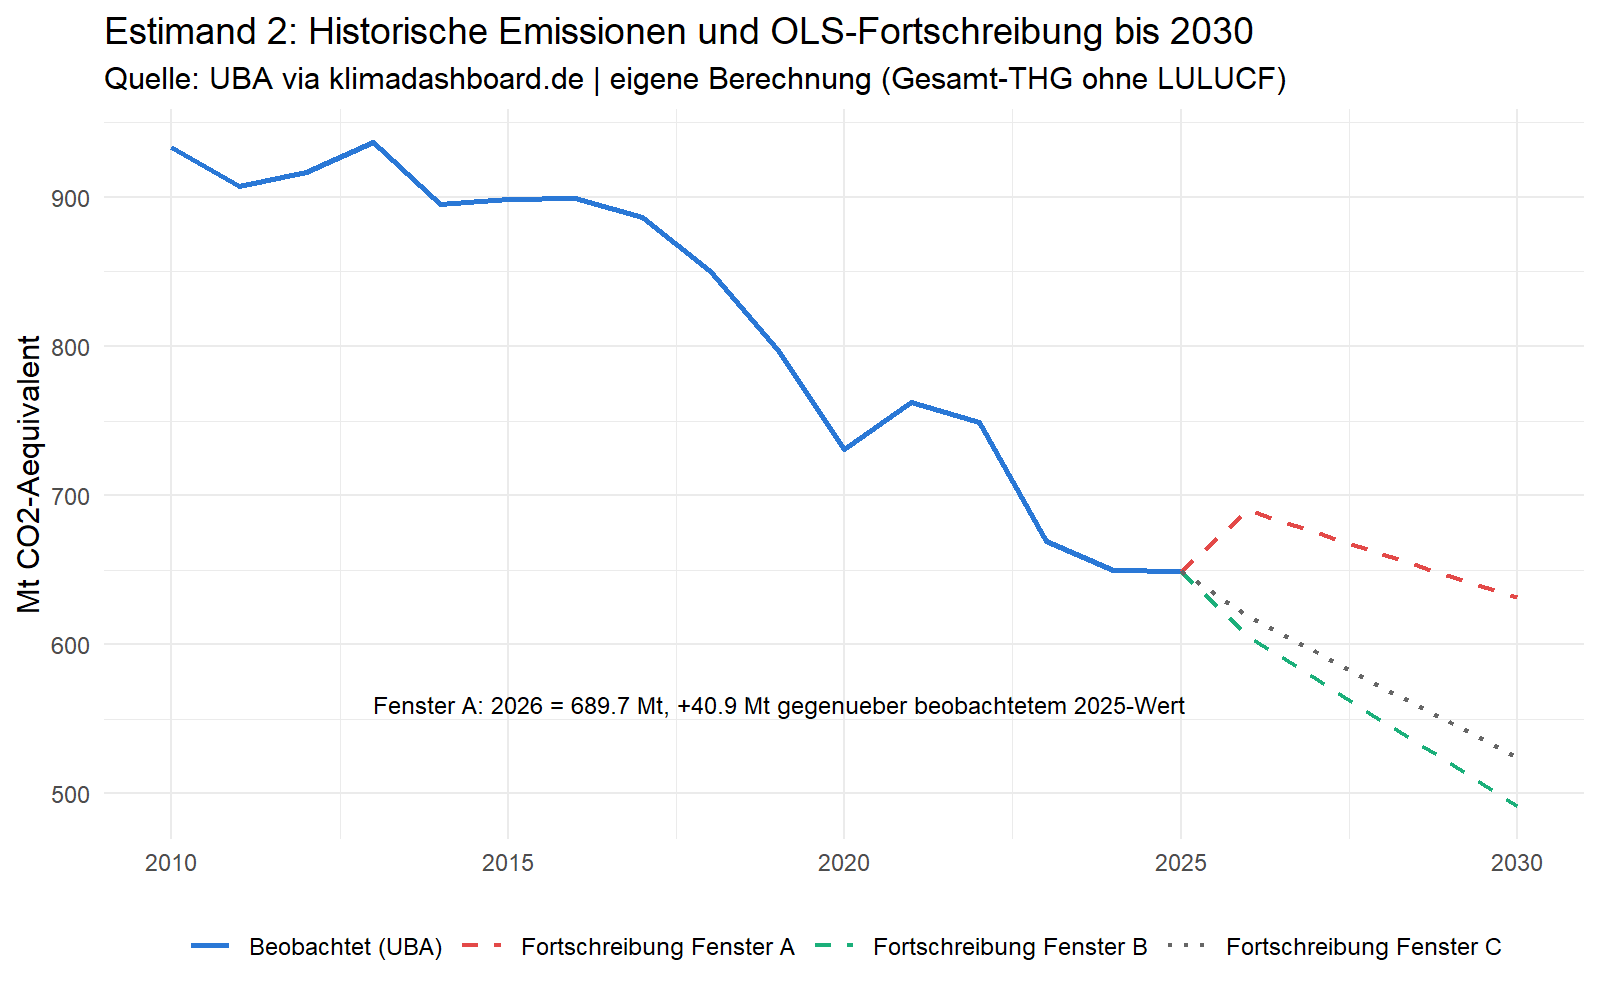
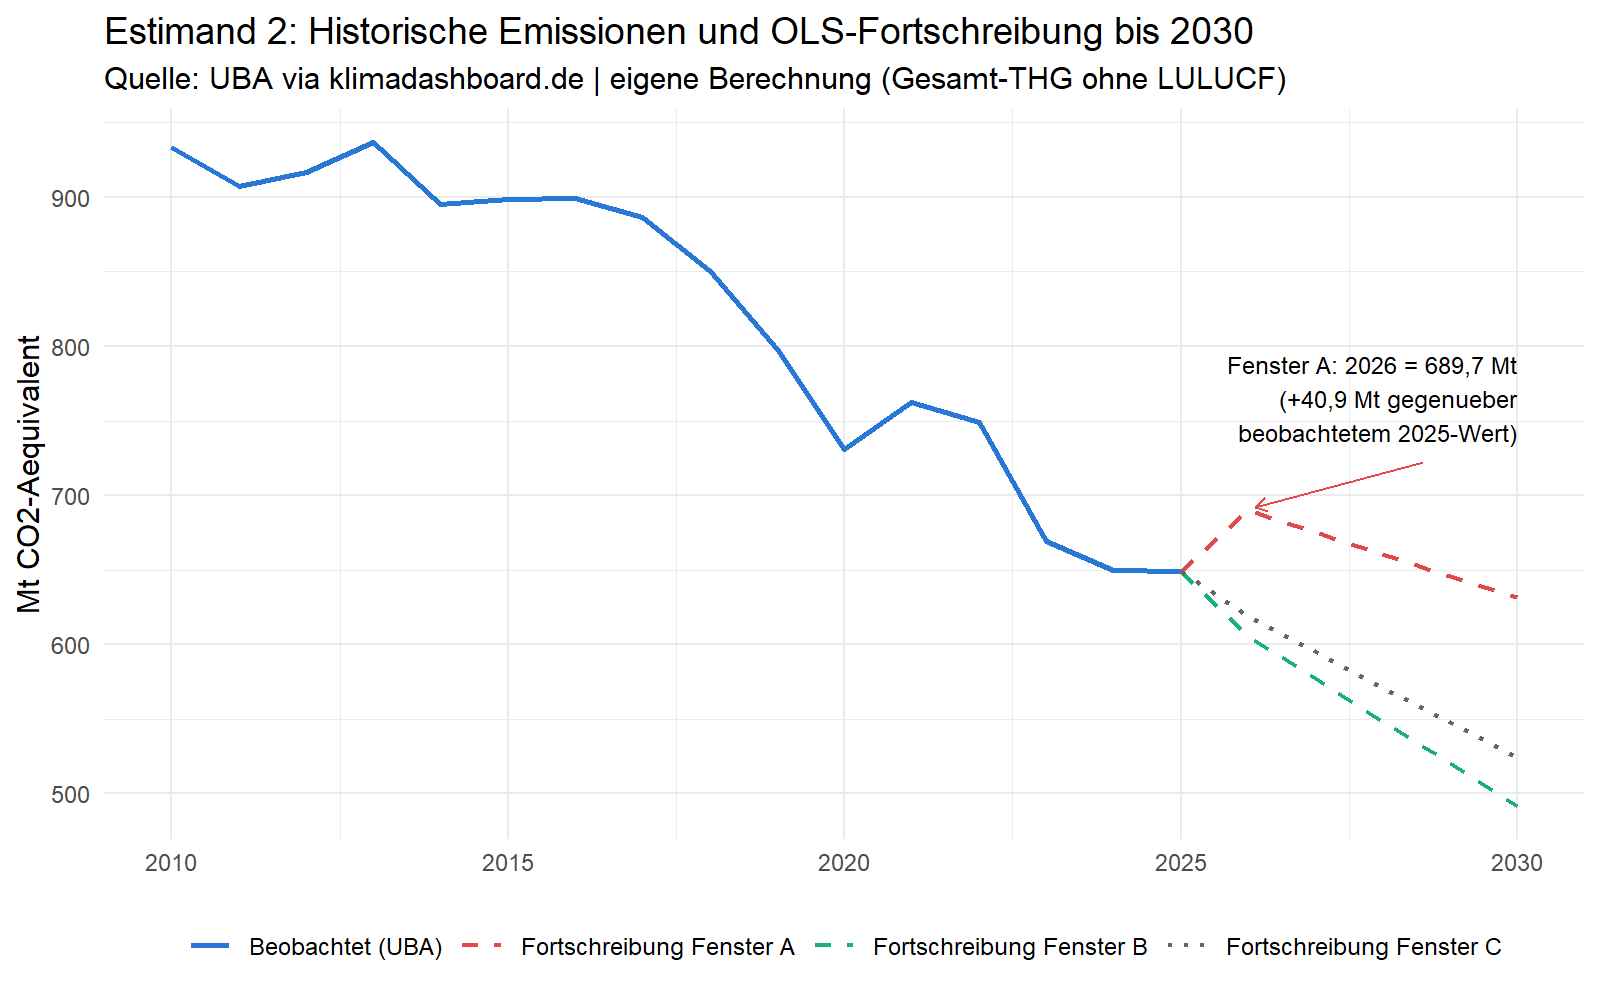
Expertenrat-Budgetabgleich 2030: Fassung 3 (N2.1-N2.4 behoben, keine Kernzahl geaendert); Nachpruefung durch validator ausstehend

Changed region(s): [[0.7812, 0.341, 0.9688, 0.465], [0.2188, 0.682, 0.75, 0.713]]

diff --git a/Analysen/2026-08-expertenrat-budgetabgleich/Analysebericht_expertenrat-budgetabgleich.md b/Analysen/2026-08-expertenrat-budgetabgleich/Analysebericht_expertenrat-budgetabgleich.md
@@ -1,9 +1,9 @@
 # Analysebericht: Expertenrat-Budgetabgleich 2021-2030 und H1-2026
 
-**Fassung 2 (nach Validierung), 23.10.2026.** Fassung 1 liegt im Git-Verlauf (Commit 78250e3) und ist durch diese Fassung ersetzt; sie enthielt einen Rechenfehler in den ARIMA-Intervallen (Abschnitt "Aenderungen nach Validierung").
+**Fassung 3 (nach Nachpruefung 1 der Validierung), 23.10.2026.** Fassung 1 (Commit 78250e3) enthielt einen Rechenfehler in den ARIMA-Intervallen (behoben in Fassung 2); Fassung 3 behebt vier geringe Befunde der Nachpruefung (N2.1-N2.4: Beschreibung des POST-HOC-Prognoseintervalls, Seed-Beschriftung, Grafikreste, Zusatzkontrollen). Kernzahlen sind gegenueber Fassung 2 unveraendert (Abschnitt "Aenderungen nach Validierung", Fassung 3).
 **SAP:** `SAP_Expertenrat-Budgetabgleich-2030.md`, Version 1.1 (Header: final, eingefroren 29.08.2026, Commit d9215cb). Die Bestaetigung durch Daniel Saure, dass v1.1 als eingefroren gilt, ist in `SAP_Bestaetigung_Daniel_Saure_2026-10-23.md` dokumentiert. Einschraenkung laut dieser Datei: Die im Chat zitierte Nachricht ist nach 300 Zeichen abgeschnitten, und eine ausdrueckliche Antwort zu den offenen Punkten 6a/6b liegt nicht vor; die Textwidersprueche im SAP (Abschnitt 0 "draft", Offene Punkte 6) bleiben bestehen. Der SAP wurde nicht veraendert.
 **Skript:** `expertenrat-budgetabgleich.R` (R 4.6.1), fehlerfrei durchgelaufen (Exit-Code 0), Log `run_log.txt`, `output/sessionInfo.txt`.
-**Status:** Analyst-Ausgabe, NICHT validiert, keine Freigabe, keine Veroeffentlichung.
+**Status:** Analyst-Ausgabe; Nachpruefung 1 der Validierung liegt vor (Fassung 2), Fassung 3 ist noch nicht erneut geprueft; keine Freigabe, keine Veroeffentlichung.
 **Abweichungen / Rueckfragen / Post-hoc:** `Abweichungsprotokoll_expertenrat-budgetabgleich.md`.
 
 Rundung wie im SAP (11): eine Nachkommastelle fuer Mt und Prozentpunkte; Ausnahmen sind gekennzeichnet (Estimand 1: drei Stellen in Klammern wegen der Toleranz 0,05 pp; Bootstrap-Grenzen in ganzen Mt wegen Monte-Carlo-Fehler).
@@ -149,11 +149,24 @@ In allen drei Fenstern waehlt `auto.arima` ein Random-Walk-Modell (0,1,0), in A 
 
 Der Monte-Carlo-Wert liegt 0,8 % ueber dem analytischen (Monte-Carlo-Fehler); beide Gegenproben bestehen. Die Normalapproximation beruecksichtigt die Unsicherheit des Drift-Parameters nicht (wie im SAP).
 
+**Hinweis zum identischen Verhaeltnis (1,008):** In den sechs Anpassungen ist das Verhaeltnis Monte-Carlo/analytisch identisch, weil dieselben Zufallszahlen (Seed 20261023) verwendet werden und nur mit unterschiedlichem sigma skaliert werden. Die Hauptkontrolle ist deshalb nicht sechs unabhaengige Pruefungen. Ergaenzend (Fassung 3, `output/arima_kontrollen_zusatz.csv`) wurden simulierte Reihen mit bekannten anderen Modellen mit je eigenem Seed und 20000 Monte-Carlo-Pfaden getestet; zusaetzlich wurden die psi-Gewichte gegen geschlossene Formeln geprueft (ARIMA(1,1,0): psi_k = (1 - phi^(k+1))/(1 - phi); ARIMA(0,1,1): psi_k = 1 + theta fuer k >= 1):
+
+| Modell (simuliert) | sd Summe analytisch | sd Summe Monte-Carlo | Verhaeltnis | max. Abw. psi zur Formel |
+|---|---|---|---|---|
+| ARIMA(1,1,0), phi = 0,6 | 121,72 | 121,14 | 0,995 | 4e-16 |
+| ARIMA(1,1,0), phi = -0,5 | 60,36 | 59,67 | 0,988 | 2e-16 |
+| ARIMA(0,1,1), theta = 0,5 | 92,50 | 92,57 | 1,001 | 0 |
+| ARIMA(0,1,1), theta = -0,4 | 40,85 | 40,97 | 1,003 | 0 |
+| ARIMA(0,1,0) | 61,20 | 60,83 | 0,994 | (RW-Formel) |
+
+Alle Abweichungen liegen innerhalb von 1,2 % (Monte-Carlo-Fehler; Toleranz im Skript 3 %), die Diagonale stimmt mit `forecast()` bis auf 1e-14 ueberein. Die Kovarianzkonstruktion ist damit auch fuer AR- und MA-Terme verifiziert, nicht nur fuer den Random Walk; im Hauptlauf kommen allerdings nur (0,1,0)-Modelle vor.
+
 ### 2.4 Hinweise zu Intervallbreiten (POST-HOC, G2/G3)
 
 - **Bootstrap (Blocklaenge 2, Seed 20260827, B = 2000):** Monte-Carlo-Fehler der Perzentilgrenzen betraegt einige Mt (Wiederholung mit anderen Seeds, B = 10000: Fenster A 431-433 / 736-741, Fenster B -158 bis -156 / 198-201). Blocklaenge 4 (POST-HOC): Fenster A 426-781 (B = 2000) bzw. 427-776 (B = 10000) statt 429-737; Fenster B -110 bis 147 bzw. -118 bis 157; Fenster C -6 bis 412. Laengere Bloecke erweitern also die Obergrenze in A und verengen die Intervalle in B/C (wenige Startpunkte); der Block-Bootstrap ist bei B/C wenig aussagekraeftig. `output/posthoc_bootstrap_sensitivitaet.csv`.
+  **Zur Seed-Beschriftung (Fassung 3, N2.2):** Der Hauptlauf setzt den Seed 20260827 nur einmal und verbraucht den Zufallsstrom der Reihe nach (primaer Fenster A, dann B, dann C, danach der Anhang). Jede Zeile der Sensitivitaetstabelle startet dagegen ihren Strom neu (Spalte `Seed_Neustart`). Nur fuer Fenster A (erster Zug im Strom) stimmt die Zeile "Blocklaenge 2, B = 2000, Seed 20260827" mit dem Hauptlauf ueberein (429 - 737). Fuer B weicht sie ab (Sensitivitaetszeile -153 bis 199 gegenueber Hauptlauf -159 bis 201); bei C stimmen beide innerhalb der Rundung ueberein (-116 bis 502), aber nur zufaellig. Die Abweichung ist reiner Monte-Carlo-Fehler, kein Rechenfehler.
 - **HAC in Fenster A:** Der Standardfehler der 5-Jahres-Summe betraegt bei OLS 63,2 Mt, bei Newey-West mit der sandwich-Voreinstellung (Prewhitening an) 268,3 Mt, ohne Prewhitening 134,9 Mt. Die Breite des analytischen A-Intervalls (Faktor ca. 4 gegenueber OLS) haengt also stark von den Voreinstellungen ab; die SAP-Vorgabe `sandwich::NeweyWest` ist eingehalten. `output/posthoc_hac_vergleich.csv`.
-- **POST-HOC Prognoseintervall der Summe fuer OLS (unabhaengige Fehler, Parametervarianz + 5 sigma^2)**, Overshoot: A 17,1 - 1151,3 (Annahme unabhaengiger Fehler verletzt, DW signifikant: zu optimistisch), B -234,4 - 284,4, C -459,6 - 737,1 (n = 6, deskriptiv). Nicht im SAP, nur zur Einordnung der Intervallart; `output/posthoc_prognoseintervall_ols.csv`.
+- **POST-HOC, deskriptiv: Prognoseintervall der Summe fuer OLS (Fassung 3 praezisiert, N2.1).** Berechnet wird: Varianz = Parametervarianz der 5-Jahres-Summe + 5 x sigma^2 (OLS-Restvarianz; Annahme **unabhaengiger** kuenftiger Restfehler), t-Quantil mit n-2 Freiheitsgraden. Die Parametervarianz ist dieselbe wie im analytischen Parameterintervall von 2.2: in Fenster A Newey-West (HAC), in B und C klassisch OLS. Overshoot-Intervalle: **Fenster B -234,4 bis 284,4 und Fenster C -459,6 bis 737,1** (beide Varianten identisch; C n = 6). **Fenster A:** 17,1 bis 1151,3 mit HAC-Parametervarianz (SE der Summe 268,3 Mt) plus iid-Restvarianz; diese Mischung ist inkonsistent, denn die iid-Annahme ist in A verletzt (DW signifikant). Mit klassischer OLS-Parametervarianz (SE 63,2 Mt) ergibt sich 382,3 bis 786,1; dieses Intervall ist bei der vorhandenen Autokorrelation zu optimistisch. Keine der beiden A-Varianten ist ein verlaesslicher Prognosebereich; sie zeigen nur, dass das Ergebnis von der Varianzannahme abhaengt. Nicht im SAP, nicht in Kernaussage oder Klassifikation; `output/posthoc_prognoseintervall_ols.csv` (beide Varianten, Spalte `Parametervarianz_Quelle`).
 
 ### 2.5 Einordnung als dritte, methodisch transparente Stimme (SAP 8c)
 
@@ -198,7 +211,17 @@ Grundlage: `Validierungsbericht_expertenrat-budgetabgleich.md` (Commit-Stand 782
 | **G4** Estimand 1 | erledigt | Rundungsspanne der H1-Rate (-1,95 % bis -2,24 %) und beobachtete Mittelraten als Fussnote; Agora-Zuordnung zum Preiseffekt als Quellenzitat. |
 | **G5** UBA-Suchprotokoll | teilweise | UBA- und AGEB-Seiten durchsucht und protokolliert (keine Halbjahres-Gesamt-THG-Reihe); keine Tiefensuche in PDF-Anhaengen. |
 | **G6** Darstellung/Dateien | erledigt | Klammer-Klassifikation bei C entfernt; SHA256SUMS festgeschrieben und vom Skript nur verglichen (Format `sha256sum -c`-kompatibel). Einmaliges Neuanlegen wegen neuer Rohdateien dokumentiert. |
-| Nachpruefung | offen | Fokussierte Nachpruefung durch den validator als eigene Datei steht aus (CLAUDE.md). |
+| Nachpruefung | Nachpruefung 1 liegt vor (Nachtrag 1 im Validierungsbericht); Fassung 3 behebt N2.1-N2.4 | Eine fokussierte Pruefung der Fassung 3 durch den validator steht aus (CLAUDE.md). |
+
+### Fassung 3 (Behebung der Befunde N2.1-N2.4 aus Nachtrag 1)
+
+| Befund | Status | Aenderung |
+|---|---|---|
+| **N2.1** Beschreibung POST-HOC-Prognoseintervall | erledigt | Beschreibung an die tatsaechliche Rechnung angepasst (Parametervarianz aus dem analytischen Verfahren, in A HAC, plus 5 sigma^2 OLS-Restvarianz, Annahme unabhaengiger Restfehler). Rechnung selbst unveraendert. Zusaetzlich beide Varianten fuer A ausgewiesen (HAC: 17,1-1151,3; OLS-Parametervarianz: 382,3-786,1; neue Spalten in der CSV). Als POST-HOC und deskriptiv gekennzeichnet; Mischung in A als inkonsistent benannt. |
+| **N2.2** Seed-Beschriftung | erledigt | Spalte umbenannt in `Seed_Neustart`, neue Spalte `Hinweis`; Erlaeuterung in 2.4 (Hauptlauf verbraucht einen Strom der Reihe nach, nur Fenster A stimmt ueberein). Keine Zahl geaendert. |
+| **N2.3** Grafiken | erledigt | `estimand2_overshoot.png`: Bundesregierung (-4,5) als Marker mit Beschriftung ueber der obersten Zeile (Skala unveraendert), rechter Rand mit Abstand, die x-Skala ist nicht mehr abgeschnitten. `estimand2_trend_bis_2030.png`: Annotation mit Pfeil am Niveausprung. `estimand1_h1_vs_cagr.png`: Dezimalkomma in Balkenwerten und Achse. `anhang_625_overshoot.png` entsprechend. Alle Grafiken mit dem Read-Tool visuell geprueft. Dass -4,5 auf der Skala von rund 1500 Mt neben der Nulllinie liegt, bleibt eine Skalengrenze und ist ausdruecklich beschriftet. |
+| **N2.4** Kontrollgrenzen | erledigt | Zusatzkontrollen fuer simulierte ARIMA(1,1,0)- und (0,1,1)-Reihen (je zwei Parametrisierungen) plus (0,1,0): Monte-Carlo mit eigenen Seeds und 20000 Pfaden, geschlossene psi-Formeln, Diagonale gegen `forecast()` (2.3). Hinweis zum identischen Verhaeltnis 1,008 (gleicher Seed) aufgenommen. Die Zusatzkontrollen laufen mit gesichertem und wiederhergestelltem Zufallsstrom, daher bleiben die Hauptergebnisse identisch. |
+| Zahlen | unveraendert | Keine Kernzahl hat sich geaendert (Punktwerte, Overshoot-Intervalle, Diagnostik, ARIMA-Intervalle gleich); neu sind nur die zusaetzlichen Spalten/Dateien (`Parametervarianz_Quelle`, `_OLSparam`, `Seed_Neustart`, `Hinweis`, `arima_kontrollen_zusatz.csv`). Pruefsummenvergleich der Rohdaten: alle 24 Dateien unveraendert. |
 
 ---
 
@@ -219,6 +242,8 @@ Grundlage: `Validierungsbericht_expertenrat-budgetabgleich.md` (Commit-Stand 782
 | C (deskriptiv) | ARIMA(0,1,0) | 382,2 | -218,8 - 983,3 | - |
 
 Dateien: `output/anhang_625_tabelle.csv`, `output/anhang_625_overshoot.png`, `output/anhang_625_diagnostik_*.png`. Diese Zeilen gehen in keine Haeufigkeitszaehlung ein. Veroeffentlichungen duerfen die Aussage "FAZ/Agora nennen 625 Mt als 2025-Wert" nicht uebernehmen.
+
+**Verwendungsvermerk (Daniel Saure, 23.10.2026):** Anhang A bleibt als Audit-Trail im Repo, geht aber NICHT in Blog, Kapitel oder Kanaltexte.
 
 ---
 

diff --git a/Analysen/2026-08-expertenrat-budgetabgleich/Abweichungsprotokoll_expertenrat-budgetabgleich.md b/Analysen/2026-08-expertenrat-budgetabgleich/Abweichungsprotokoll_expertenrat-budgetabgleich.md
@@ -71,3 +71,19 @@ Grundlage: `Validierungsbericht_expertenrat-budgetabgleich.md`. Fassung 1 (Commi
 3. Mensch: Ausdrueckliche Antwort zu den SAP-Punkten 6a/6b steht aus (siehe `SAP_Bestaetigung_Daniel_Saure_2026-10-23.md`).
 4. Herkunft der 625 (angepasste Jahresmenge?) ist nicht durch ein UBA-Dokument belegt; Quelle waere die UBA-Berechnung der Emissionsdaten 2025 (UBA 2026g, Tabelle 3).
 5. RF-3: Ob das POST-HOC-Prognoseintervall fuer OLS (bzw. eine GLS/AR(1)-Variante fuer Fenster A) ein SAP-Amendment braucht, entscheidet der Mensch.
+
+---
+
+# Nachtrag Fassung 3 (Behebung N2.1-N2.4), 23.10.2026
+
+Grundlage: Nachtrag 1 des Validierungsberichts. Keine Kernzahl hat sich geaendert (Punktwerte, Overshoot-Intervalle, ARIMA-Intervalle, Diagnostik, Bootstrap-Hauptlaeufe identisch zu Fassung 2; Rohdaten-Pruefsummen alle unveraendert).
+
+| Befund | Aenderung |
+|---|---|
+| N2.1 | Die Beschreibung des POST-HOC-Prognoseintervalls (RF-3 / Nachtrag Fassung 2 und Bericht 2.4) war unvollstaendig: "unabhaengige Fehler, Parametervarianz + 5 sigma^2" verschwieg, dass die Parametervarianz in Fenster A die Newey-West-Varianz (SE 268,3 Mt) ist. Die Rechnung selbst widersprach der Beschreibung nicht und blieb unveraendert; die Beschreibung wurde korrigiert (HAC-Parametervarianz in A, OLS in B/C, plus 5 sigma^2 OLS-Restvarianz, unabhaengige Restfehler angenommen). Zusaetzlich wird fuer A die Variante mit klassischer OLS-Parametervarianz ausgewiesen (382,3-786,1; neue CSV-Spalten `_OLSparam`, `Parametervarianz_Quelle`). Der Vermerk "zu optimistisch" gilt nur fuer die OLS-Variante; die HAC-Mischung in A ist inkonsistent (iid-Annahme verletzt). Beide Intervalle sind POST-HOC, deskriptiv und gehen nicht in Klassifikation oder Kernaussage ein. |
+| N2.2 | `posthoc_bootstrap_sensitivitaet.csv`: Spalte `Seed` in `Seed_Neustart` umbenannt, Spalte `Hinweis` ergaenzt. Der Hauptlauf setzt den Seed einmal und verbraucht den Strom der Reihe nach (primaer A, B, C, Anhang); die Sensitivitaetszeilen starten den Strom neu. Nur Fenster A stimmt mit dem Hauptlauf ueberein; Abweichungen bei B (-153/199 vs. -159/201) sind Monte-Carlo-Fehler. |
+| N2.3 | Grafiken ueberarbeitet und visuell geprueft: Bundesregierungs-Marker mit Beschriftung ueber der obersten Zeile (Skala nicht veraendert), Randabstand rechts, Annotation mit Pfeil am Niveausprung, Dezimalkomma in der Estimand-1-Grafik; Anhangsgrafik entsprechend. |
+| N2.4 | Zusatzkontrollen fuer ARIMA(1,1,0), (0,1,1) und (0,1,0) an simulierten Reihen (eigene Seeds, 20000 MC-Pfade, geschlossene psi-Formeln); alle bestanden (MC-Abweichung <= 1,2 %, psi und Diagonale exakt). Hinweis zum identischen MC/analytisch-Verhaeltnis (gleicher Seed) im Bericht. Technisch: Der Zufallsstrom wird um die Zusatzkontrollen gesichert und wiederhergestellt; ein erster Entwurf ohne Sicherung hatte die Bootstrap-Hauptergebnisse veraendert (A 432 statt 429) und wurde vor dem Endlauf korrigiert, Endlauf identisch zu Fassung 2. |
+| Anhang A | Verwendungsvermerk im Analysebericht: bleibt als Audit-Trail im Repo, geht nicht in Blog, Kapitel oder Kanaltexte (Entscheidung Daniel Saure). |
+
+Offen: Fokussierte Pruefung der Fassung 3 durch den validator als eigene Datei; Entscheidungen zu SAP-Erratum und Antwort 6a/6b liegen beim Menschen (siehe Nachtrag Fassung 2).
